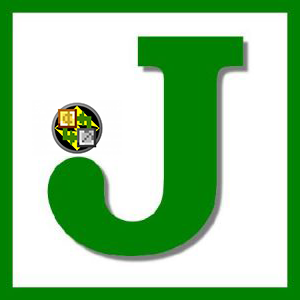
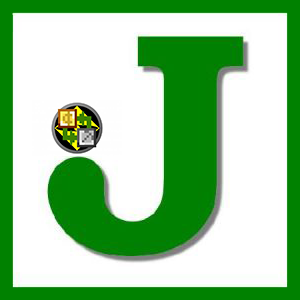
显示流体数量

Changed region(s): [[0.03, 0.03, 0.96, 0.96]]

diff --git a/src/main/java/com/qinglin/just_enough_lightmans_trades/jei/JELTRecipeCategory.java b/src/main/java/com/qinglin/just_enough_lightmans_trades/jei/JELTRecipeCategory.java
@@ -1,5 +1,6 @@
 package com.qinglin.just_enough_lightmans_trades.jei;
 
+import com.mojang.blaze3d.vertex.PoseStack;
 import com.qinglin.just_enough_lightmans_trades.trades.JELTTrade;
 import io.github.lightman314.lightmanscurrency.common.core.ModItems;
 import mezz.jei.api.constants.VanillaTypes;
@@ -12,7 +13,6 @@ import mezz.jei.api.recipe.IFocusGroup;
 import mezz.jei.api.recipe.RecipeIngredientRole;
 import mezz.jei.api.recipe.RecipeType;
 import mezz.jei.api.recipe.category.IRecipeCategory;
-import net.minecraft.ChatFormatting;
 import net.minecraft.client.Minecraft;
 import net.minecraft.client.gui.GuiGraphics;
 import net.minecraft.network.chat.Component;
@@ -63,10 +63,7 @@ public class JELTRecipeCategory implements IRecipeCategory<JELTTrade> {
         for(FluidStack fluid:recipe.getFluidInputs()){
             int x=lx+(idx%3)*18,y=sy+(idx/3)*18;
             builder.addSlot(RecipeIngredientRole.INPUT,x,y)
-                    .addFluidStack(fluid.getFluid(),fluid.getAmount(),fluid.getTag())
-                    .addRichTooltipCallback((recipeSlotView, tooltip) -> {
-                        tooltip.add(Component.literal(fluid.getAmount() + " mB").withStyle(net.minecraft.ChatFormatting.GRAY));
-                    });
+                    .addFluidStack(fluid.getFluid(),fluid.getAmount(),fluid.getTag());
             idx++;
         }
         idx=0;
@@ -78,25 +75,27 @@ public class JELTRecipeCategory implements IRecipeCategory<JELTTrade> {
         for(FluidStack fluid:recipe.getFluidOutputs()){
             int x=rx+(idx%3)*18,y=sy+(idx/3)*18;
             builder.addSlot(RecipeIngredientRole.OUTPUT,x,y)
-                    .addFluidStack(fluid.getFluid(),fluid.getAmount(),fluid.getTag())
-                    .addRichTooltipCallback((recipeSlotView, tooltip) -> {
-                        tooltip.add(Component.literal(fluid.getAmount()+" mB").withStyle(net.minecraft.ChatFormatting.GRAY));
-                    });
+                    .addFluidStack(fluid.getFluid(),fluid.getAmount(),fluid.getTag());
             idx++;
         }
     }
 
     @Override
-    public void draw(
-            JELTTrade recipe,
-            IRecipeSlotsView slotsView,
-            GuiGraphics graphics,
-            double mouseX,
-            double mouseY)
-    {
-
-        Minecraft mc =
-                Minecraft.getInstance();
+    public void draw(JELTTrade recipe, IRecipeSlotsView slotsView, GuiGraphics graphics,
+            double mouseX, double mouseY) {
+        Minecraft mc = Minecraft.getInstance();
+        final int lx=4,rx=90,sy=24;int idx=recipe.getItemInputs().size();
+        for(FluidStack fluid:recipe.getFluidInputs()){
+            int x=lx+(idx%3)*18,y=sy+(idx/3)*18;
+            drawFluidAmount(graphics, fluid.getAmount(), x, y);
+            idx++;
+        }
+        idx=recipe.getItemOutputs().size();
+        for(FluidStack fluid:recipe.getFluidOutputs()){
+            int x=rx+(idx%3)*18,y=sy+(idx/3)*18;
+            drawFluidAmount(graphics, fluid.getAmount(), x, y);
+            idx++;
+        }
 
         graphics.drawString(
                 mc.font,
@@ -106,7 +105,6 @@ public class JELTRecipeCategory implements IRecipeCategory<JELTTrade> {
                 0x404040,
                 false
         );
-
         graphics.drawString(
                 mc.font,
                 recipe.getOwnerName(),
@@ -115,7 +113,34 @@ public class JELTRecipeCategory implements IRecipeCategory<JELTTrade> {
                 0x808080,
                 false
         );
-
         arrow.draw(graphics, 64, 32);
+    }
+
+    private void drawFluidAmount(GuiGraphics graphics, int amount, int x, int y) {
+        Minecraft mc = Minecraft.getInstance();
+        String text;
+        if(amount<1000)text=amount + "mB";
+        else {
+            double t= (double) amount /1000;
+            text = String.format("%.2fB", t);
+            if(text.endsWith(".00B")){text=text.replace(".00B","B");}
+            else if(text.endsWith("0B")) {
+                text = text.substring(0, text.length() - 2) + "B";
+            }
+        }
+        PoseStack pose = graphics.pose();
+        pose.pushPose();
+        pose.translate(0, 0, 200);
+        pose.scale(0.5F, 0.5F, 1.0F);
+        int textWidth = mc.font.width(text);
+        graphics.drawString(
+                mc.font,
+                text,
+                x * 2 + 32 - textWidth,
+                y * 2 + 24,
+                0xFFFFFF,
+                true
+        );
+        pose.popPose();
     }
 }

diff --git a/src/main/java/com/qinglin/just_enough_lightmans_trades/trades/JELTTrade.java b/src/main/java/com/qinglin/just_enough_lightmans_trades/trades/JELTTrade.java
@@ -29,8 +29,7 @@ public class JELTTrade {
             List<ItemStack> itemInputs,
             List<ItemStack> itemOutputs,
             List<FluidStack> fluidInputs,
-            List<FluidStack> fluidOutputs)
-    {
+            List<FluidStack> fluidOutputs) {
         this.traderId = traderId;
         this.traderName = traderName;
         this.traderOwnerName = traderOwnerName;
@@ -46,34 +45,16 @@ public class JELTTrade {
     public String getTraderId() {
         return traderId;
     }
-
     public String getTraderName() {
         return traderName;
     }
-
     public String getOwnerName() {return traderOwnerName;}
-
     public String getTradeType() {
         return tradeType;
     }
 
-    public List<ItemStack> getItemInputs()
-    {
-        return itemInputs;
-    }
-
-    public List<ItemStack> getItemOutputs()
-    {
-        return itemOutputs;
-    }
-
-    public List<FluidStack> getFluidInputs()
-    {
-        return fluidInputs;
-    }
-
-    public List<FluidStack> getFluidOutputs()
-    {
-        return fluidOutputs;
-    }
+    public List<ItemStack> getItemInputs() {return itemInputs;}
+    public List<ItemStack> getItemOutputs() {return itemOutputs;}
+    public List<FluidStack> getFluidInputs() {return fluidInputs;}
+    public List<FluidStack> getFluidOutputs() {return fluidOutputs;}
 }

diff --git a/src/main/java/com/qinglin/just_enough_lightmans_trades/jei/JELTJeiPlugin.java b/src/main/java/com/qinglin/just_enough_lightmans_trades/jei/JELTJeiPlugin.java
@@ -78,8 +78,5 @@ public class JELTJeiPlugin implements IModPlugin {
                 JELTRecipeTypes.TRADES
         );
 
-
-
-
     }
 }